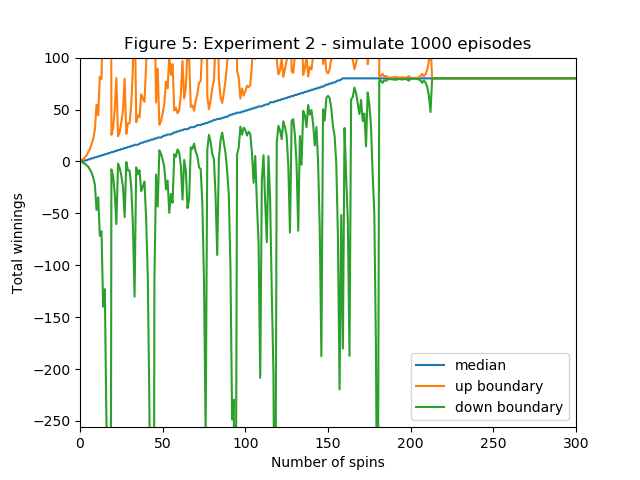
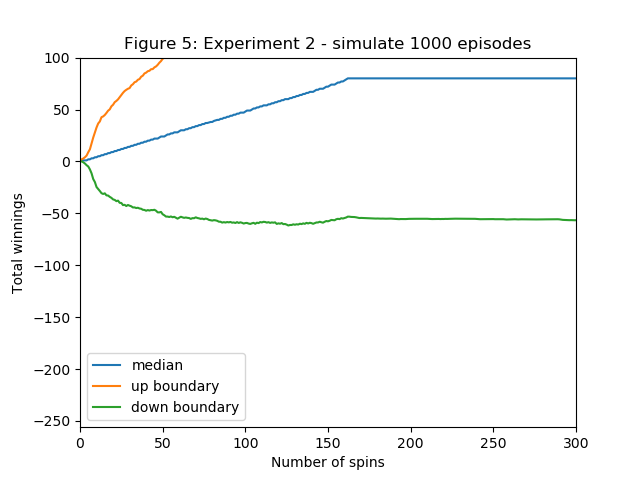
changes

diff --git a/martingale.py b/martingale.py
@@ -67,7 +67,7 @@ def strategy_simulate():
     result_array = np.full((1001), 0)
     episode_winnings = 0
     spin_cnt = 0
-    while episode_winnings < 80:
+    while episode_winnings < 80 and spin_cnt < 1000:
         won = False
         bet_amount = 1
 
@@ -166,7 +166,7 @@ def strategy_simulate_with_limited_bankroll():
     result_array = np.full((1001), 0)
     episode_winnings = 0
     spin_cnt = 0
-    while episode_winnings < 80 and episode_winnings > -256:
+    while episode_winnings < 80 and episode_winnings > -256 and spin_cnt < 1000:
         won = False
         bet_amount = 1
 
@@ -214,7 +214,7 @@ def experiment2_fig4():
 def experiment2_fig5():
     res = []
     for i in range(1000):
-        episode_result = strategy_simulate()
+        episode_result = strategy_simulate_with_limited_bankroll()
         res.append(episode_result)
 
     df = pd.DataFrame(res)
